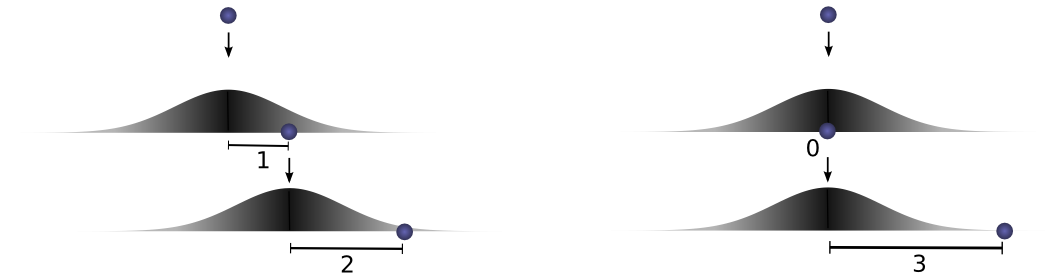
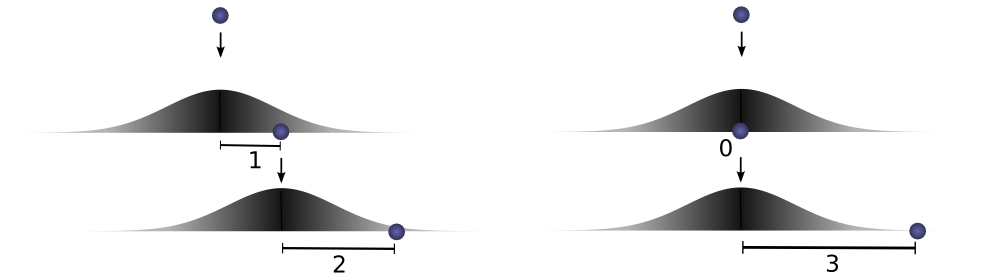
update blog

diff --git a/posts/2014-07-NLP-RNNs-Representations/index.html b/posts/2014-07-NLP-RNNs-Representations/index.html
@@ -108,7 +108,7 @@
 <p>Universality means that a network can fit to any training data you give it. It doesn’t mean that it will interpolate to new data points in a reasonable way.</p>
 <p>No, universality isn’t an explanation for why neural networks work so well. The real reason seems to be something much more subtle… And, to understand it, we’ll first need to understand some concrete results.</p>
 <h2 id="word-embeddings">Word Embeddings</h2>
-<p>I’d like to start by tracing a particularly interesting strand of deep learning research: word embeddings. In my personal opinion, word embeddings are one of the most exciting area of research in deep learning at the moment. Beyond that, I think they are one of the best places to gain intuition about why deep learning is so effective.</p>
+<p>I’d like to start by tracing a particularly interesting strand of deep learning research: word embeddings. In my personal opinion, word embeddings are one of the most exciting area of research in deep learning at the moment, although they were originally introduced by Bengio, <em>et al.</em> more than a decade ago.<a href="#fn3" class="footnoteRef" id="fnref3"><sup>3</sup></a> Beyond that, I think they are one of the best places to gain intuition about why deep learning is so effective.</p>
 <p>A word embedding <span class="math">\(W: \mathrm{words} \to \mathbb{R}^n\)</span> is a paramaterized function mapping words in some language to high-dimensional vectors (perhaps 200 to 500 dimensions). For example, we might find:</p>
 <p><span class="math">\[W(``\text{cat}\!&quot;) = (0.2,~ \text{-}0.4,~ 0.7,~ ...)\]</span></p>
 <p><span class="math">\[W(``\text{mat}\!&quot;) = (0.0,~ 0.6,~ \text{-}0.1,~ ...)\]</span></p>
@@ -151,7 +151,7 @@ What words have embeddings closest to a given word? From <a href="http://arxiv.o
 
 </div>
 <p>It seems natural for a network to make words with similar meanings have similar vectors. If you switch a word for a synonym (eg. “a few people sing well” <span class="math">\(\to\)</span> “a <em>couple</em> people sing well”), the validity of the sentence doesn’t change. While, from a naive perspective, the input sentence has changed a lot, if <span class="math">\(W\)</span> maps synonyms (like “few” and “couple”) close together, from <span class="math">\(R\)</span>’s perspective little changes.</p>
-<p>This is very powerful. The number of possible 5-grams is massive and we have a comparatively small number of data points to try to learn from. Similar words being close together allows us to generalize from one sentence to a class of similar sentences. This doesn’t just mean switching a word for a synonym, but also switching a word for a word in a similar class (eg. “the wall is blue” <span class="math">\(\to\)</span> “the wall is <em>red</em>”). Further, we can change multiple words (eg. “the wall is blue” <span class="math">\(\to\)</span> “the <em>ceiling</em> is <em>red</em>”). The impact of this is exponential with respect to the number of words.<a href="#fn3" class="footnoteRef" id="fnref3"><sup>3</sup></a></p>
+<p>This is very powerful. The number of possible 5-grams is massive and we have a comparatively small number of data points to try to learn from. Similar words being close together allows us to generalize from one sentence to a class of similar sentences. This doesn’t just mean switching a word for a synonym, but also switching a word for a word in a similar class (eg. “the wall is blue” <span class="math">\(\to\)</span> “the wall is <em>red</em>”). Further, we can change multiple words (eg. “the wall is blue” <span class="math">\(\to\)</span> “the <em>ceiling</em> is <em>red</em>”). The impact of this is exponential with respect to the number of words.<a href="#fn4" class="footnoteRef" id="fnref4"><sup>4</sup></a></p>
 <p>So, clearly this is a very useful thing for <span class="math">\(W\)</span> to do. But how does it learn to do this? It seems quite likely that there are lots of situations where it has seen a sentence like “the wall is blue” and know that it is valid before it sees a sentence like “the wall is red”. As such, shifting “red” a bit closer to “blue” makes the network perform better.</p>
 <p>We still need to see examples of every word being used, but the analogies allow us to generalize to new combinations of words. You’ve seen all the words that you understand before, but you haven’t seen all the sentences that you understand before. So too with neural networks.</p>
 <div class="floatrightimgcontainer">
@@ -192,7 +192,7 @@ Relationship pairs in a word embedding. From <a href="http://arxiv.org/pdf/1301.
 <p>There’s a counterpart to this trick. Instead of learning a way to represent one kind of data and using it to perform multiple kinds of tasks, we can learn a way to map multiple kinds of data into a single representation!</p>
 <p>One nice example of this is a bilingual word-embedding, produced in <a href="http://ai.stanford.edu/~wzou/emnlp2013_ZouSocherCerManning.pdf">Socher <em>et al.</em> (2013a)</a>. We can learn to embed words from two different languages in a single, shared space. In this case, we learn to embed English and Mandarin Chinese words in the same space.</p>
 <div class="floatrightimgcontainer">
-<img src="img/flowchart-billingual.png" alt style>
+<img src="img/flowchart-bilingual.png" alt style>
 </div>
 <p>We train two word embeddings, <span class="math">\(W_{en}\)</span> and <span class="math">\(W_{zh}\)</span> in a manner similar to how we did above. However, we know that certain English words and Chinese words have similar meanings. So, we optimize for an additional property: words that we know are close translations should be close together.</p>
 <p>Of course, we observe that the words we knew had similar meanings end up close together. Since we optimized for that, it’s not surprising. More interesting is that words we <em>didn’t know</em> were translations end up close together.</p>
@@ -204,11 +204,11 @@ Relationship pairs in a word embedding. From <a href="http://arxiv.org/pdf/1301.
 t-SNE visualization of the bilingual word embedding. Green is Chinese, Yellow is English. (<a href="http://ai.stanford.edu/~wzou/emnlp2013_ZouSocherCerManning.pdf">Socher <em>et al.</em> (2013a)</a>)
 </div>
 </div>
-<p>In billingual word embeddings, we learn a shared representation for two very similar kinds of data. But we can also learn to embed very different kinds of data in the same space.</p>
+<p>In bilingual word embeddings, we learn a shared representation for two very similar kinds of data. But we can also learn to embed very different kinds of data in the same space.</p>
 <div class="floatrightimgcontainer">
 <img src="img/flowchart-DeViSE.png" alt style>
 </div>
-<p>Recently, deep learning has begun exploring models that embed images and words in a single representation.<a href="#fn4" class="footnoteRef" id="fnref4"><sup>4</sup></a></p>
+<p>Recently, deep learning has begun exploring models that embed images and words in a single representation.<a href="#fn5" class="footnoteRef" id="fnref5"><sup>5</sup></a></p>
 <p>The basic idea is that one classifies images by outputting a vector in a word embedding. Images of dogs are mapped near the “dog” word vector. Images of horses are mapped near the “horse” vector. Images of automobiles near the “automobile” vector. And so on.</p>
 <p>The interesting part is what happens when you test the model on new classes of images. For example, if the model wasn’t trained to classify cats – that is, to map them near the “cat” vector – what happens when we try to classify images of cats?</p>
 <div class="centerimgcontainer">
@@ -300,7 +300,7 @@ Small section of the t-SNE of the phrase representation <br /> (From <a href="ht
 
 </div>
 <h2 id="criticisms">Criticisms</h2>
-<p>I’ve heard some of the results reviewed above criticized by researchers in other fields, in particualar, in NLP and linguistics. The concerns are not with the results themselves, but the conclusions drawn from them, and how they compare to other techniques.</p>
+<p>I’ve heard some of the results reviewed above criticized by researchers in other fields, in particular, in NLP and linguistics. The concerns are not with the results themselves, but the conclusions drawn from them, and how they compare to other techniques.</p>
 <p>I don’t feel qualified to articulate these concerns. I’d encourage someone who feels this way to describe the concerns in the comments.</p>
 <h2 id="conclusion">Conclusion</h2>
 <p>The representation perspective of deep learning is a powerful view that seems to answer why deep neural networks are so effective. Beyond that, I think there’s something extremely beautiful about it: why are neural networks effective? Because better ways of representing data can pop out of optimizing layered models.</p>
@@ -312,10 +312,11 @@ Small section of the t-SNE of the phrase representation <br /> (From <a href="ht
 <section class="footnotes">
 <hr />
 <ol>
-<li id="fn1"><p>Constructing a case for every possible input requires <span class="math">\(2^n\)</span> hidden neurons, when you have <span class="math">\(n\)</span> input neurons. In reality, the situation isn’t usually that bad. You can have cases that encompass multiple inputs. And you have can have overlapping cases that add together to achieve the right input on their intersection.<a href="#fnref1">↩</a></p></li>
+<li id="fn1"><p>Constructing a case for every possible input requires <span class="math">\(2^n\)</span> hidden neurons, when you have <span class="math">\(n\)</span> input neurons. In reality, the situation isn’t usually that bad. You can have cases that encompass multiple inputs. And you can have overlapping cases that add together to achieve the right input on their intersection.<a href="#fnref1">↩</a></p></li>
 <li id="fn2"><p>(It isn’t only perceptron networks that have universality. Networks of sigmoid neurons (and other activation functions) are also universal: give enough hidden neurons, they can approximate any continuous function arbitrarily well. Seeing this is significantly trickier because you can’t just isolate inputs.)<a href="#fnref2">↩</a></p></li>
-<li id="fn3"><p>The seminal paper, <a href="http://machinelearning.wustl.edu/mlpapers/paper_files/BengioDVJ03.pdf"><em>A Neural Probabilistic Language Model</em> (Bengio, <em>et al.</em> 2003)</a> has a great deal of insight about why word embeddings are powerful.<a href="#fnref3">↩</a></p></li>
-<li id="fn4"><p>Previous work has been done modeling the joint distributions of tags and images, but it took a very different perspective.<a href="#fnref4">↩</a></p></li>
+<li id="fn3"><p>Word embeddings were originally developed in (<a href="http://www.iro.umontreal.ca/~lisa/publications2/index.php/publications/show/64">Bengio et al, 2001</a>; <a href="http://machinelearning.wustl.edu/mlpapers/paper_files/BengioDVJ03.pdf">Bengio et al, 2003</a>), a few years before the 2006 deep learning renewal, at a time when neural networks were out of fashion. The idea of distributed representations for symbols is even older, e.g. (<a href="http://www.cogsci.ucsd.edu/~ajyu/Teaching/Cogs202_sp13/Readings/hinton86.pdf">Hinton 1986</a>).&quot;<a href="#fnref3">↩</a></p></li>
+<li id="fn4"><p>The seminal paper, <a href="http://machinelearning.wustl.edu/mlpapers/paper_files/BengioDVJ03.pdf"><em>A Neural Probabilistic Language Model</em> (Bengio, <em>et al.</em> 2003)</a> has a great deal of insight about why word embeddings are powerful.<a href="#fnref4">↩</a></p></li>
+<li id="fn5"><p>Previous work has been done modeling the joint distributions of tags and images, but it took a very different perspective.<a href="#fnref5">↩</a></p></li>
 </ol>
 </section>
 

diff --git a/posts/2014-07-Understanding-Convolutions/index.html b/posts/2014-07-Understanding-Convolutions/index.html
@@ -4,7 +4,7 @@
     
     <head>
         <meta http-equiv="Content-Type" content="text/html; charset=UTF-8" />
-        <title>Conv Nets: Understanding Convolutions - colah's blog</title>
+        <title>Understanding Convolutions - colah's blog</title>
         
         <link rel="stylesheet" href="../../fonts/Serif/cmun-serif.css" />
         <link rel="stylesheet" href="../../fonts/Serif-Slanted/cmun-serif-slanted.css" />
@@ -81,10 +81,10 @@
                 <div class="container">
                     <div class="row">
                         <div class="col-md-8">
-                            <h1>Conv Nets: Understanding Convolutions</h1>
+                            <h1>Understanding Convolutions</h1>
                             <div id="body">
                                 <div class="info">
-    <p style="font-family:CMSS; font-size:130%">Posted on June 21, 2014</p>
+    <p style="font-family:CMSS; font-size:130%">Posted on July 13, 2014</p>
     <p style="font-family:CMS; font-style:italic"><a href="../../posts/tags/neural_networks.html">neural networks</a>, <a href="../../posts/tags/convolutional_neural_networks.html">convolutional neural networks</a>, <a href="../../posts/tags/convolution.html">convolution</a>, <a href="../../posts/tags/math.html">math</a>, <a href="../../posts/tags/probability.html">probability</a></p>
     <!--
         by colah
@@ -274,6 +274,9 @@ Derived from the <a href="http://docs.gimp.org/en/plug-in-convmatrix.html">Gimp 
 <div class="spaceafterimg">
 
 </div>
+<p>Which corresponds to the equations:</p>
+<p><span class="math">\[y_0 = \sigma(W_0x_0 + W_1x_1 -b)\]</span></p>
+<p><span class="math">\[y_1 = \sigma(W_0x_1 + W_1x_2 -b)\]</span></p>
 <p>So while, normally, a weight matrix connects every input to every neuron with different weights:</p>
 <p><span class="math">\[W = \left[\begin{array}{ccccc} 
 W_{0,0} &amp; W_{0,1} &amp; W_{0,2} &amp; W_{0,3} &amp; ...\\
@@ -290,7 +293,7 @@ w_0 &amp; w_1 &amp;  0  &amp;  0  &amp; ...\\
  0  &amp;  0  &amp;  0  &amp; w_0 &amp; ...\\
 ... &amp; ... &amp; ... &amp; ... &amp; ...\\
 \end{array}\right]\]</span></p>
-<p>Multiplying by the above matrix is the same thing as convolving with <span class="math">\([...0, w_1, w_0, 0...]\)</span>.</p>
+<p>Multiplying by the above matrix is the same thing as convolving with <span class="math">\([...0, w_1, w_0, 0...]\)</span>. The function sliding to different positions corresponds to having neurons at those positions.</p>
 <p>What about two-dimensional convolutional layers?</p>
 <div class="centerimgcontainer">
 <img src="img/Conv2-5x5-Conv2-XY.png" alt style>
@@ -304,11 +307,12 @@ w_0 &amp; w_1 &amp;  0  &amp;  0  &amp; ...\\
 <p>We introduced a lot of mathematical machinery in this blog post, but it may not be obvious what we gained. Convolution is obviously a useful tool in probability theory and computer graphics, but what do we gain from phrasing convolutional neural networks in terms of convolutions?</p>
 <p>The first advantage is that we have some very powerful language for describing the wiring of networks. The examples we’ve dealt with so far haven’t been complicated enough for this benefit to become clear, but convolutions will allow us to get rid of huge amounts of unpleasant book-keeping for us.</p>
 <p>Secondly, convolutions come with significant implementational advantages. Many libraries provide highly efficient convolution routines. Further, while convolution naively appears to be an <span class="math">\(O(n^2)\)</span> operation, using some rather deep mathematical insights, it is possible to create a <span class="math">\(O(n\log(n))\)</span> implementation. We will discuss this in much greater detail in a future post.</p>
+<p>In fact, he use of highly-efficient parallel convolution implementations on GPUs has been essential to recent progress in computer vision.</p>
 <h2 id="next-posts-in-this-series">Next Posts in this Series</h2>
 <p>This post is part of a series on convolutional neural networks and their generalizations. The first two posts will be review for those familiar with deep learning, while later ones should be of interest to everyone.</p>
 <p>Pull requests can be made on <a href="https://github.com/colah/Conv-Nets-Series">github</a>.</p>
 <h2 id="acknowledgments">Acknowledgments</h2>
-<p>I’m very grateful to everyone who discussed conv nets with me!</p>
+<p>I’m very grateful to everyone who talked with me about convolutions and how to explain them!</p>
 <section class="footnotes">
 <hr />
 <ol>

diff --git a/posts/2014-07-Conv-Nets-Modular/index.html b/posts/2014-07-Conv-Nets-Modular/index.html
@@ -94,7 +94,7 @@
 
 <h2 id="introduction">Introduction</h2>
 <p>In the last few years, deep neural networks have lead to breakthrough results on a variety of pattern recognition problems, such as computer vision and voice recognition. One of the essential components leading to these results has been a special kind of neural network called a <em>convolutional neural network</em>.</p>
-<p>At it’s most basic, convolutional neural networks can be thought of as a kind of neural network that uses many identical copies of the same neuron.<a href="#fn1" class="footnoteRef" id="fnref1"><sup>1</sup></a> This allows the network to have lots of neurons and express computationally large models while keeping the number of actual parameters – the values describing how neurons behave – that need to be learned fairly small.</p>
+<p>At its most basic, convolutional neural networks can be thought of as a kind of neural network that uses many identical copies of the same neuron.<a href="#fn1" class="footnoteRef" id="fnref1"><sup>1</sup></a> This allows the network to have lots of neurons and express computationally large models while keeping the number of actual parameters – the values describing how neurons behave – that need to be learned fairly small.</p>
 <div class="bigcenterimgcontainer">
 <img src="img/Conv2-9x5-Conv2Conv2.png" alt style>
 <div class="caption">

diff --git a/index.html b/index.html
@@ -1,4 +1,4 @@
-<?xml version="1.0" encoding="UTF-8" ?>  
+<?xml version="1.0" encoding="UTF-8" ?>
 <!DOCTYPE html PUBLIC "-//W3C//DTD XHTML 1.0 Strict//EN" "http://www.w3.org/TR/xhtml1/DTD/xhtml1-strict.dtd">
 <html xmlns="http://www.w3.org/1999/xhtml" xml:lang="en" lang="en">
     
@@ -83,6 +83,11 @@
                     <h1>Home</h1>
                     <h2>Posts</h2>
 <ul>
+    
+        <li class="post_item">
+    		<a href="posts/2014-07-Understanding-Convolutions/">Understanding Convolutions</a>
+    			- <span class="soft">July 13, 2014</span>
+		</li>
     
         <li class="post_item">
     		<a href="posts/2014-07-Conv-Nets-Modular/">Conv Nets: A Modular Perspective</a>

diff --git a/posts/tags/math.html b/posts/tags/math.html
@@ -84,7 +84,10 @@
                             <h1>Math Posts</h1>
                             <div id="body">
                                 <div class="postlist">
-	</div>
+	<div class="post_item">
+    <a href="../../posts/2014-07-Understanding-Convolutions/">Understanding Convolutions</a>
+    - <span class="soft">July 13, 2014</span>
+</div></div>
                             </div>
                         </div>
                         <div class="col-md-4" id="toc-wrapper">

diff --git a/posts/tags/neural_networks.html b/posts/tags/neural_networks.html
@@ -85,6 +85,9 @@
                             <div id="body">
                                 <div class="postlist">
 	<div class="post_item">
+    <a href="../../posts/2014-07-Understanding-Convolutions/">Understanding Convolutions</a>
+    - <span class="soft">July 13, 2014</span>
+</div><div class="post_item">
     <a href="../../posts/2014-07-Conv-Nets-Modular/">Conv Nets: A Modular Perspective</a>
     - <span class="soft">July  8, 2014</span>
 </div><div class="post_item">

diff --git a/posts/tags/convolutional_neural_networks.html b/posts/tags/convolutional_neural_networks.html
@@ -85,6 +85,9 @@
                             <div id="body">
                                 <div class="postlist">
 	<div class="post_item">
+    <a href="../../posts/2014-07-Understanding-Convolutions/">Understanding Convolutions</a>
+    - <span class="soft">July 13, 2014</span>
+</div><div class="post_item">
     <a href="../../posts/2014-07-Conv-Nets-Modular/">Conv Nets: A Modular Perspective</a>
     - <span class="soft">July  8, 2014</span>
 </div>

diff --git a/archive.html b/archive.html
@@ -87,6 +87,11 @@
 <ul>
     
         <li class="post_item">
+    		<a href="posts/2014-07-Understanding-Convolutions/">Understanding Convolutions</a>
+    			- <span class="soft">July 13, 2014</span>
+		</li>
+    
+        <li class="post_item">
     		<a href="posts/2014-07-Conv-Nets-Modular/">Conv Nets: A Modular Perspective</a>
     			- <span class="soft">July  8, 2014</span>
 		</li>
